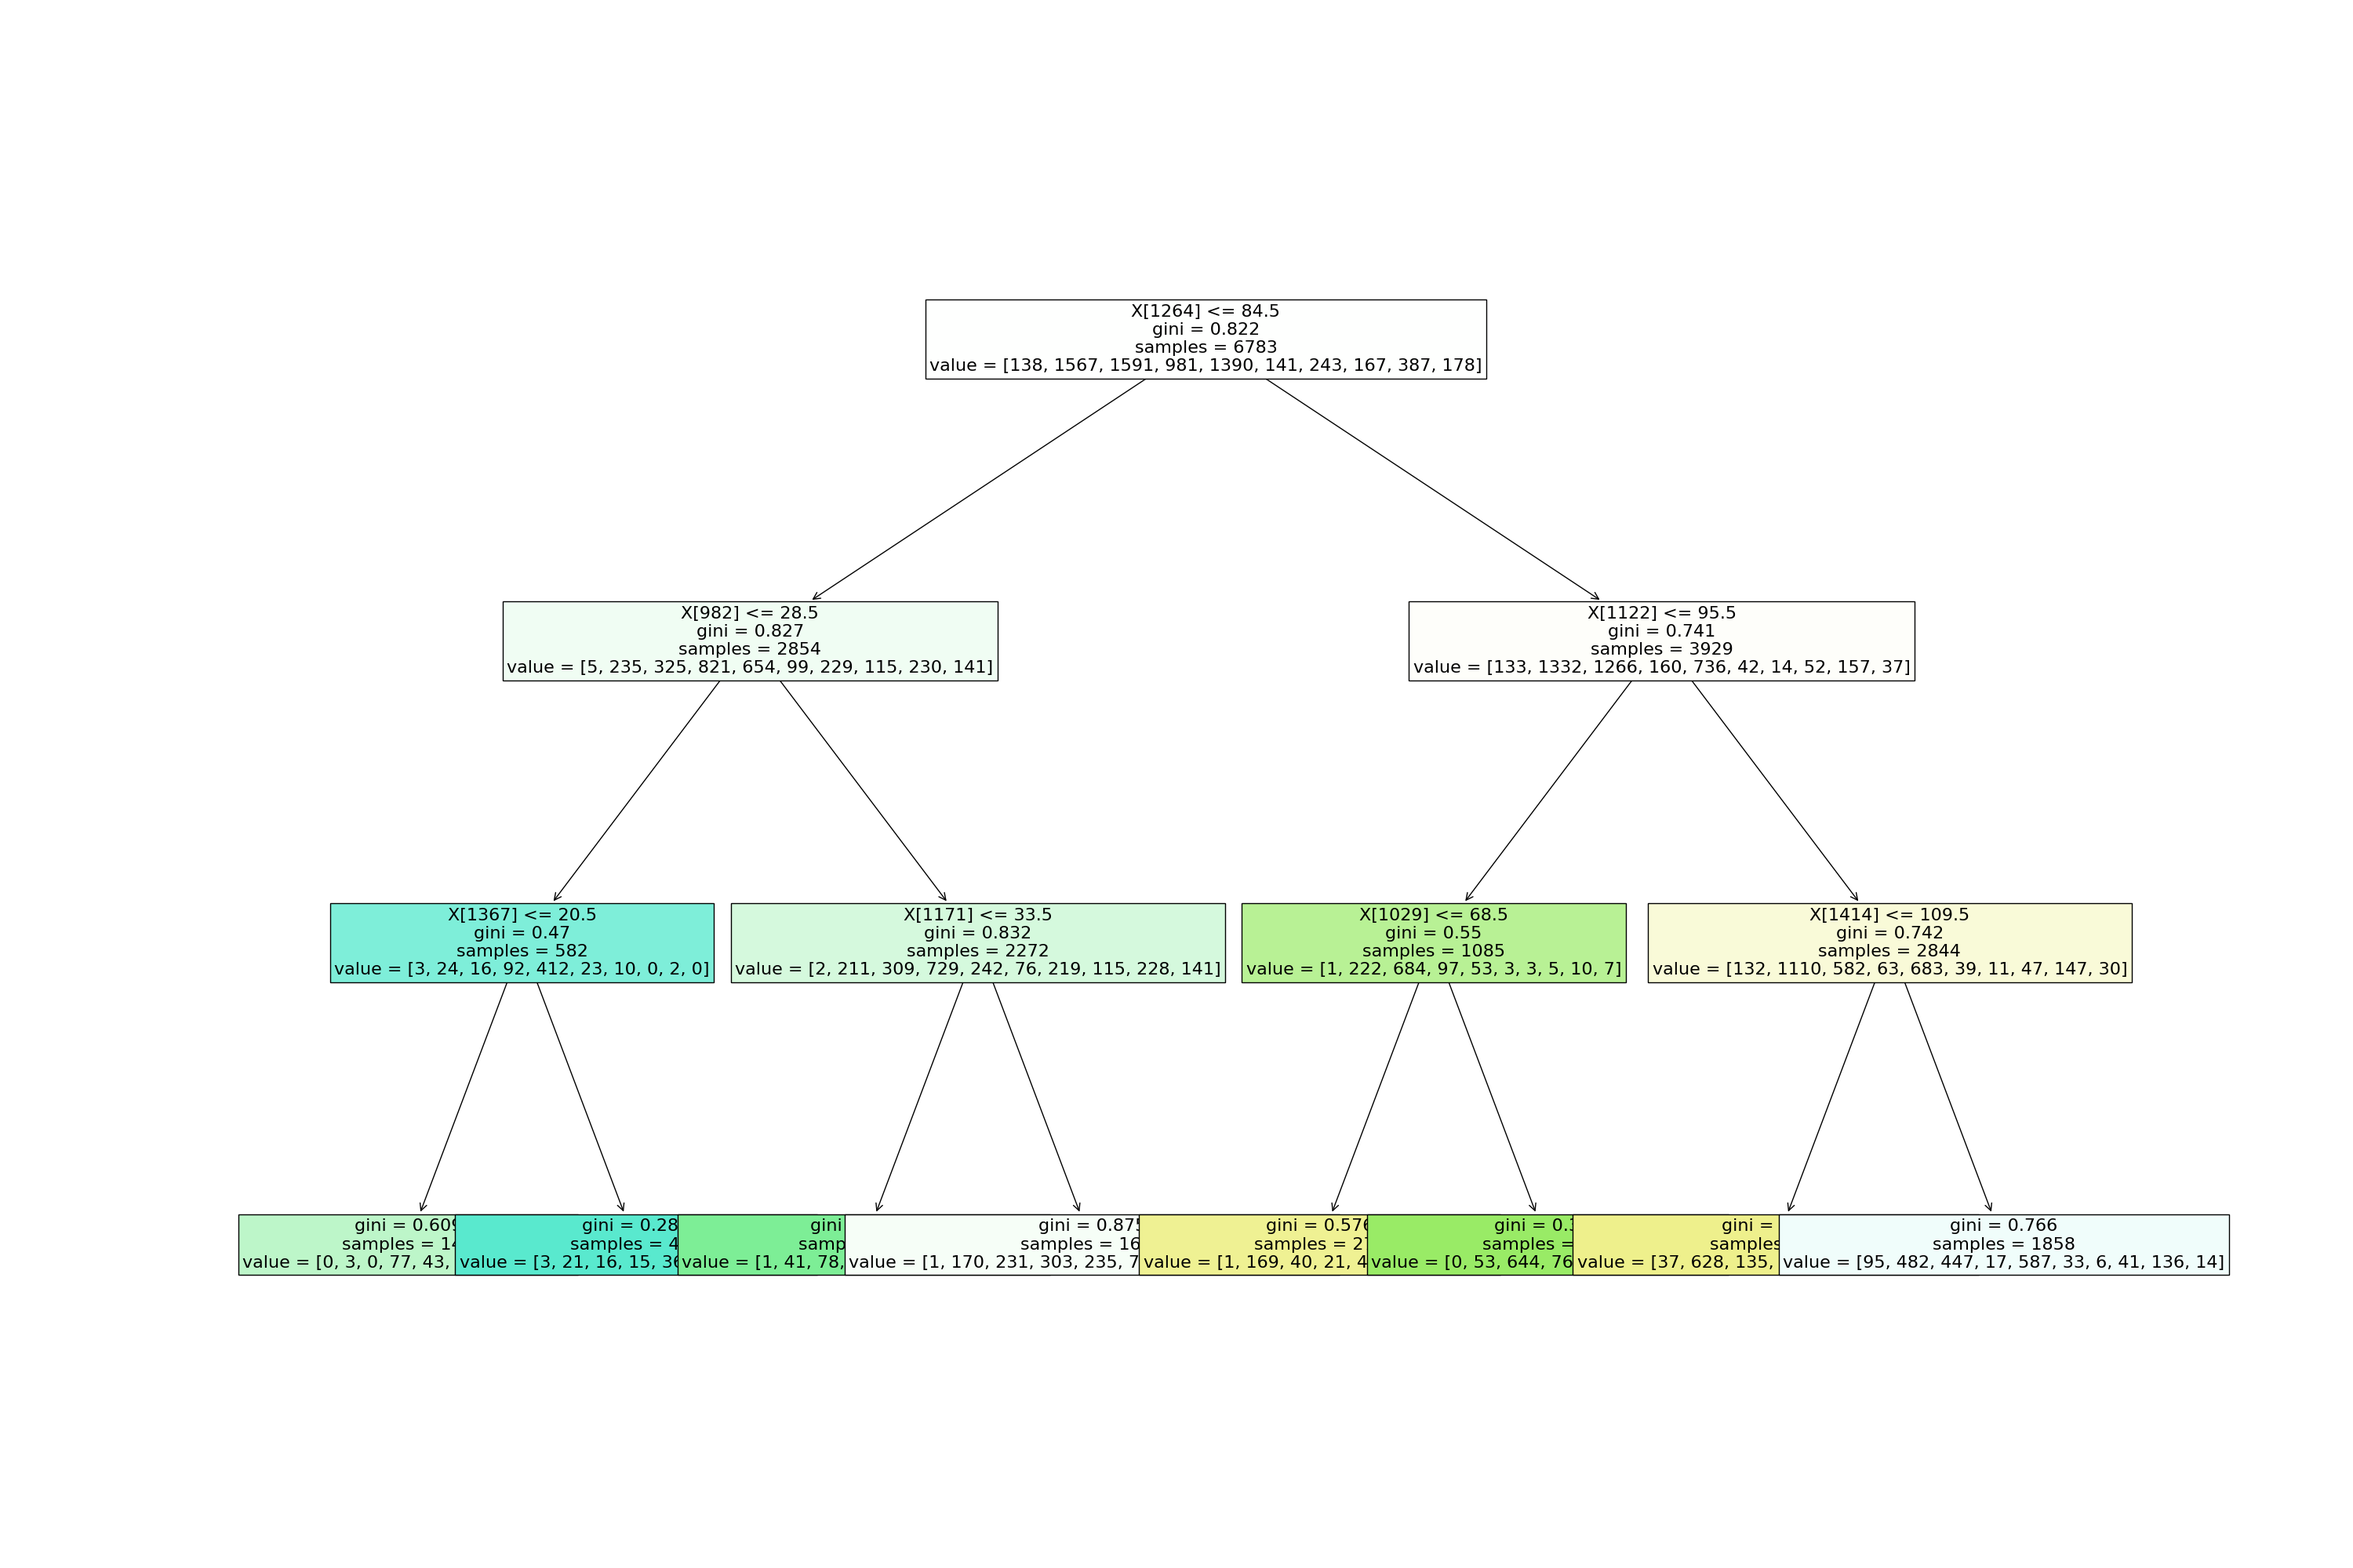
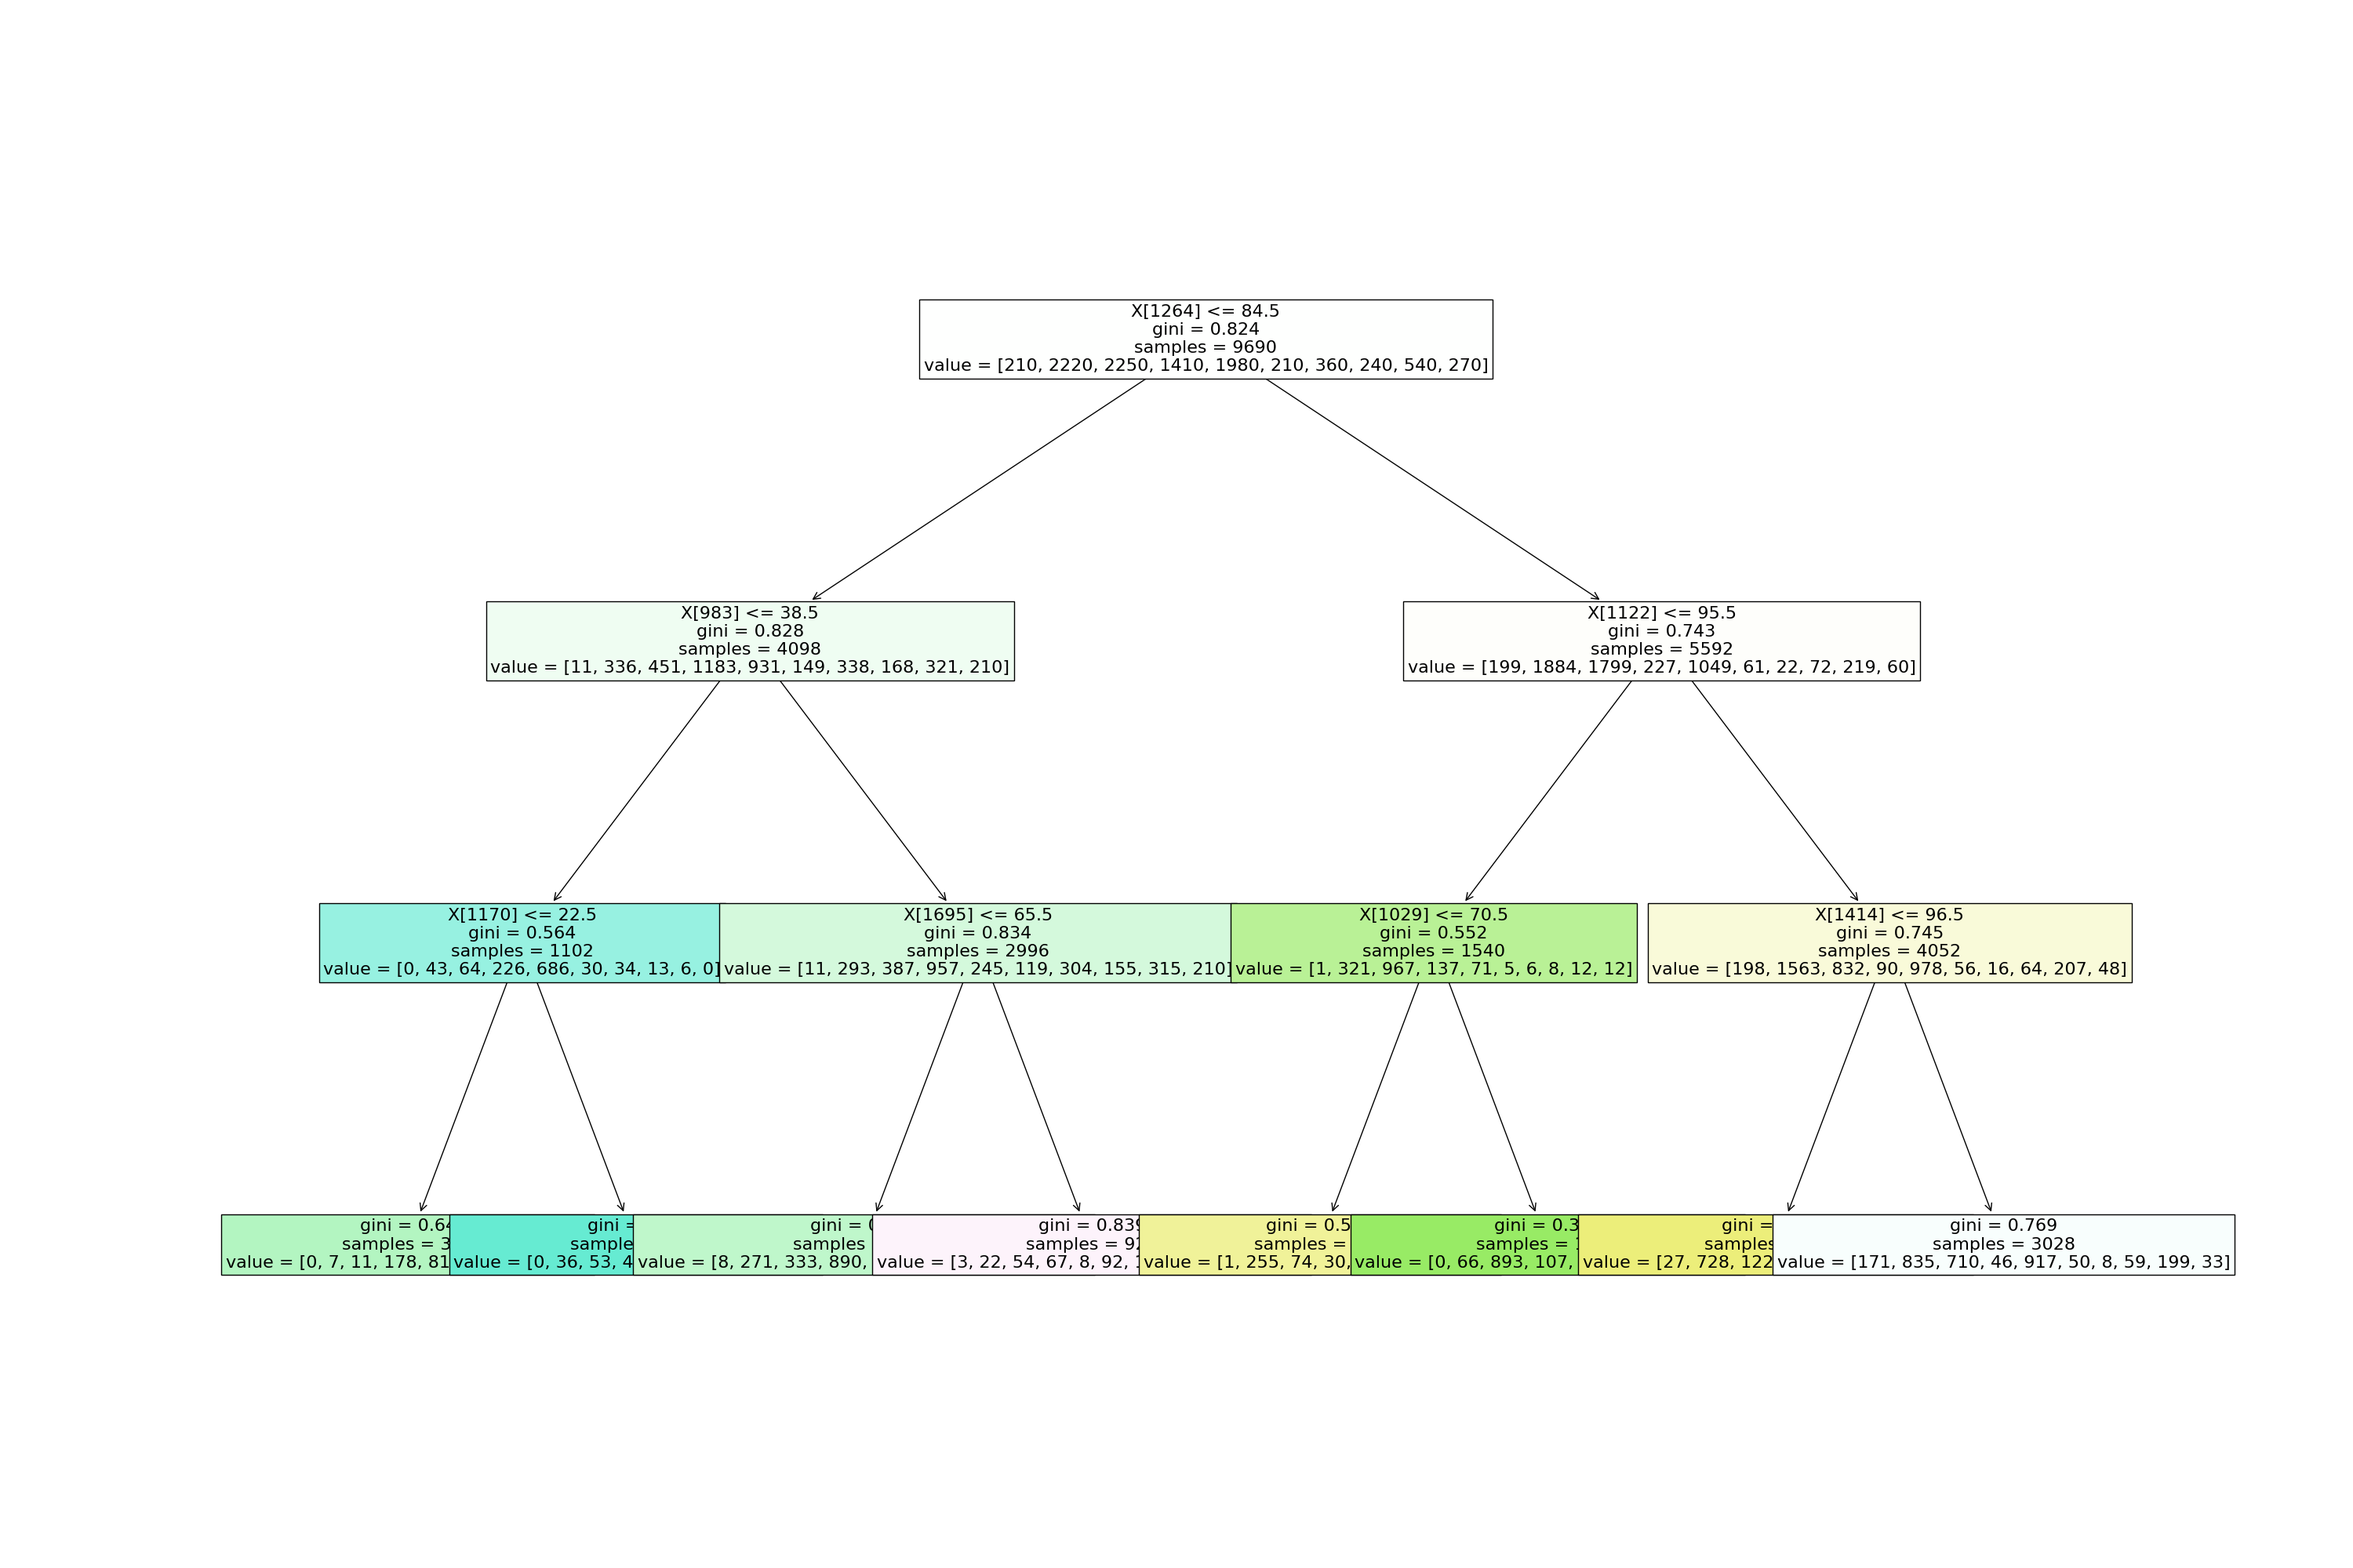
Fixed DT

diff --git a/Decision_Trees/J48_DT.py b/Decision_Trees/J48_DT.py
@@ -1,5 +1,5 @@
 from sklearn import tree as sk
-from sklearn.model_selection import cross_val_score
+from sklearn.model_selection import cross_validate
 import matplotlib.pyplot as plt
 
 from sklearn.model_selection import train_test_split
@@ -8,7 +8,6 @@ plt.rcParams["figure.figsize"] = (30, 20)
 
 data = pd.read_csv("../training_data/x_train_gr_smpl.csv")
 labels = pd.read_csv("../training_data/y_train_smpl.csv")
-X_train, X_test, Y_train, Y_test = train_test_split(data, labels, test_size=0.3, random_state=100)
 
 
 # generate j48 decision tree for various depths and collect average scores
@@ -17,12 +16,12 @@ def decisionTree():
     for i in range(2, 5):
         print("Tree Depth : " + str(i))
         tree = vis_tree = sk.DecisionTreeClassifier(max_depth=i, random_state=42)
-        visualiseTree(vis_tree.fit(X_train, Y_train), depth=i)
+        visualiseTree(vis_tree.fit(data, labels), depth=i)
         print("Starting CV with tree depth : " + str(i) + " .......")
-        cross = cross_val_score(tree, X_train, Y_train, cv=10)
+        cross = cross_validate(tree, data, labels, cv=10)
         print("Finished CV with tree depth : " + str(i))
-        print("\n### Mean Score for Tree Depth " + str(i) + " : " + str(cross.mean()) + " ###\n")
-        z.append(cross.mean())
+        print("\n### Mean Score for Tree Depth " + str(i) + " : " + str(cross) + " ###\n")
+        z.append(cross)
     print(z)
 
 
